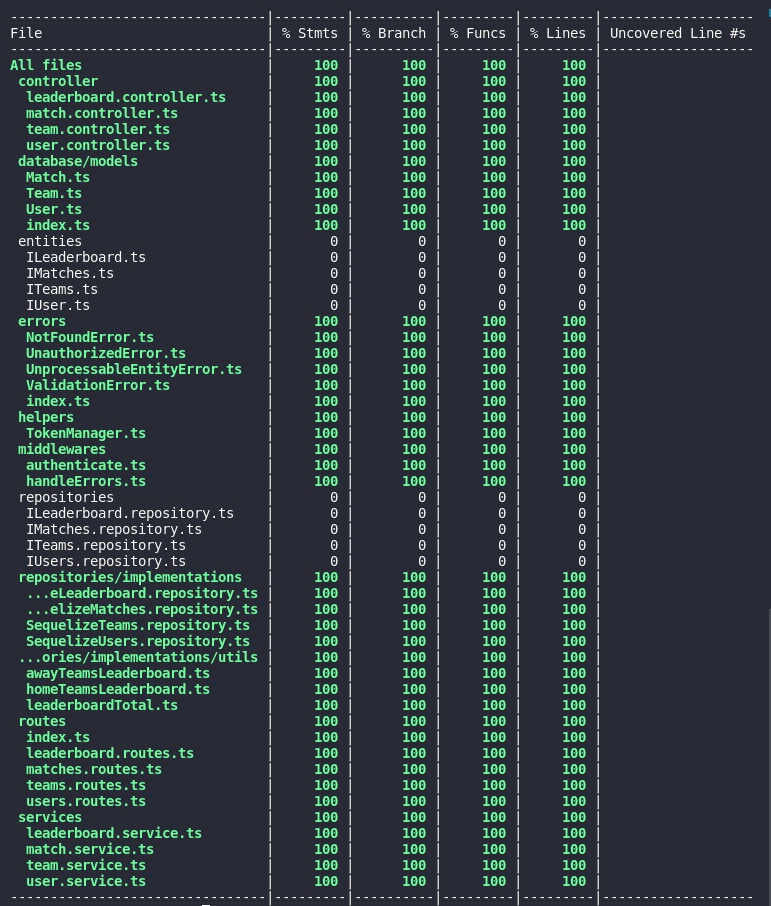
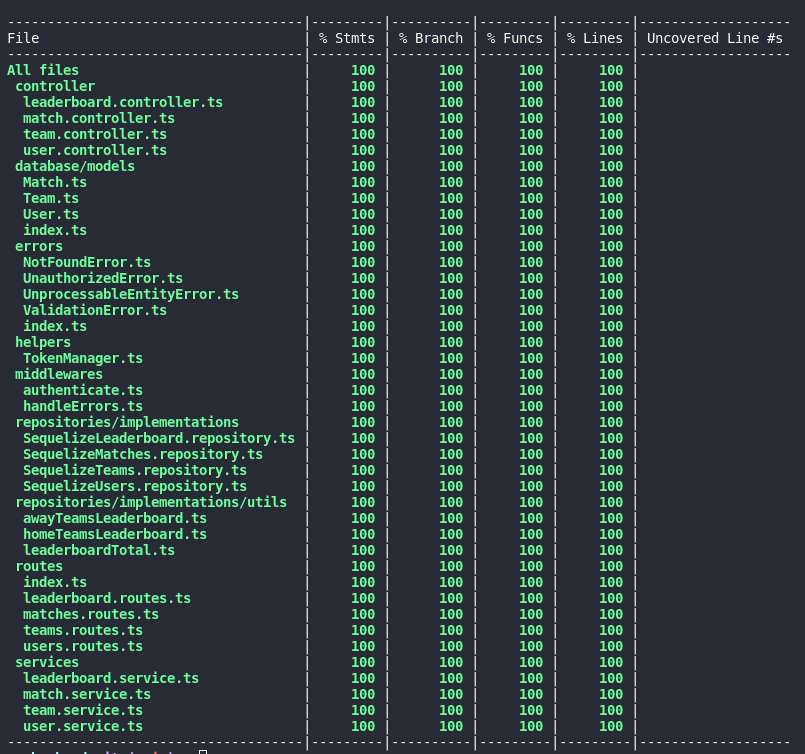
docs: adição de gif da aplicação funcionando

Changed region(s): [[0.0, 0.0, 0.965, 1.0], [0.9961, 0.6711, 1.0, 1.0], [0.9961, 0.0, 1.0, 0.0305]]

diff --git a/app/backend/src/repositories/implementations/SequelizeLeaderboard.repository.ts b/app/backend/src/repositories/implementations/SequelizeLeaderboard.repository.ts
@@ -3,8 +3,9 @@ import ILeaderboard from '../../entities/ILeaderboard';
 import awayTeamsLeaderBoard from './utils/awayTeamsLeaderboard';
 import homeTeamsLeaderBoard from './utils/homeTeamsLeaderboard';
 import leaderboardTotal from './utils/leaderboardTotal';
+import ILeaderboardRepository from '../interfaces/ILeaderboard.repository';
 
-export default class ILeaderboardRepository implements ILeaderboardRepository {
+export default class LeaderboardRepository implements ILeaderboardRepository {
   private _model = modelSequelize;
 
   public leaderboardHome = async (): Promise<ILeaderboard[]> => {

diff --git a/app/backend/src/services/match.service.ts b/app/backend/src/services/match.service.ts
@@ -1,7 +1,7 @@
 import { NotFoundError, UnprocessableError } from '../errors';
 import IMatch, { ICreateMatchDTO, IUpdateMatchDTO } from '../entities/IMatches';
-import IMatchesRepository from '../repositories/IMatches.repository';
-import ITeamsRepository from '../repositories/ITeams.repository';
+import IMatchesRepository from '../repositories/interfaces/IMatches.repository';
+import ITeamsRepository from '../repositories/interfaces/ITeams.repository';
 
 export default class MatchService {
   private _matchesRepository: IMatchesRepository;

diff --git a/app/backend/src/repositories/implementations/SequelizeMatches.repository.ts b/app/backend/src/repositories/implementations/SequelizeMatches.repository.ts
@@ -1,7 +1,7 @@
 import MatchModel from '../../database/models/Match';
 import TeamModel from '../../database/models/Team';
 import IMatches, { ICreateMatchDTO, IUpdateMatchDTO } from '../../entities/IMatches';
-import IMatchesRepository from '../IMatches.repository';
+import IMatchesRepository from '../interfaces/IMatches.repository';
 
 export default class SequelizeMatchesRepository implements IMatchesRepository {
   private _model = MatchModel;

diff --git a/app/backend/src/services/user.service.ts b/app/backend/src/services/user.service.ts
@@ -2,7 +2,7 @@ import * as bcrypt from 'bcryptjs';
 import { ILoginDTO } from '../entities/IUser';
 import { UnauthorizedError } from '../errors';
 import TokenManager from '../helpers/TokenManager';
-import IUsersRepository from '../repositories/IUsers.repository';
+import IUsersRepository from '../repositories/interfaces/IUsers.repository';
 
 export default class UserService {
   private _usersRepository: IUsersRepository;

diff --git a/app/backend/src/repositories/implementations/SequelizeTeams.repository.ts b/app/backend/src/repositories/implementations/SequelizeTeams.repository.ts
@@ -1,7 +1,7 @@
 import { Op } from 'sequelize';
 import TeamModel from '../../database/models/Team';
 import ITeam from '../../entities/ITeams';
-import ITeamsRepository from '../ITeams.repository';
+import ITeamsRepository from '../interfaces/ITeams.repository';
 
 export default class SequelizeTeamsRepository implements ITeamsRepository {
   private _model = TeamModel;

diff --git a/app/backend/src/repositories/implementations/SequelizeUsers.repository.ts b/app/backend/src/repositories/implementations/SequelizeUsers.repository.ts
@@ -1,6 +1,6 @@
 import UserModel from '../../database/models/User';
 import { IUser } from '../../entities/IUser';
-import IUsersRepository from '../IUsers.repository';
+import IUsersRepository from '../interfaces/IUsers.repository';
 
 export default class SequelizeUsersRepository implements IUsersRepository {
   private _model = UserModel;

diff --git a/app/backend/src/services/leaderboard.service.ts b/app/backend/src/services/leaderboard.service.ts
@@ -1,5 +1,5 @@
 import ILeaderboard from '../entities/ILeaderboard';
-import ILeaderboardRepository from '../repositories/ILeaderboard.repository';
+import ILeaderboardRepository from '../repositories/interfaces/ILeaderboard.repository';
 
 export default class LeaderboardService {
   private _leaderboardRepository: ILeaderboardRepository;

diff --git a/app/backend/src/services/team.service.ts b/app/backend/src/services/team.service.ts
@@ -1,6 +1,6 @@
 import { NotFoundError } from '../errors';
 import ITeam from '../entities/ITeams';
-import ITeamsRepository from '../repositories/ITeams.repository';
+import ITeamsRepository from '../repositories/interfaces/ITeams.repository';
 
 export default class TeamService {
   private _teamsRepository: ITeamsRepository;

diff --git a/app/backend/src/repositories/interfaces/IMatches.repository.ts b/app/backend/src/repositories/interfaces/IMatches.repository.ts
@@ -1,4 +1,4 @@
-import IMatches, { ICreateMatchDTO, IUpdateMatchDTO } from '../entities/IMatches';
+import IMatches, { ICreateMatchDTO, IUpdateMatchDTO } from '../../entities/IMatches';
 
 export default interface IMatchesRepository {
   findAll(): Promise<IMatches[] | null>;

diff --git a/app/backend/nyc.config.js b/app/backend/nyc.config.js
@@ -6,8 +6,11 @@ module.exports = {
     'src/database/config',
     'src/database/migrations',
     'src/database/seeders',
+    'src/entities',
+    'src/repositories/interfaces',
     'src/server.ts',
     'src/app.ts'
+
   ],
   include: ['src/**/*.ts']
 };

diff --git a/app/backend/src/repositories/interfaces/ILeaderboard.repository.ts b/app/backend/src/repositories/interfaces/ILeaderboard.repository.ts
@@ -1,4 +1,4 @@
-import ILeaderboard from '../entities/ILeaderboard';
+import ILeaderboard from '../../entities/ILeaderboard';
 
 export default interface ILeaderboardRepository {
   leaderboardHome(): Promise<ILeaderboard[]>;

diff --git a/app/backend/src/repositories/interfaces/IUsers.repository.ts b/app/backend/src/repositories/interfaces/IUsers.repository.ts
@@ -1,4 +1,4 @@
-import { IUser } from '../entities/IUser';
+import { IUser } from '../../entities/IUser';
 
 export default interface IUsersRepository {
   findByEmail(email: string): Promise<IUser | null>;
